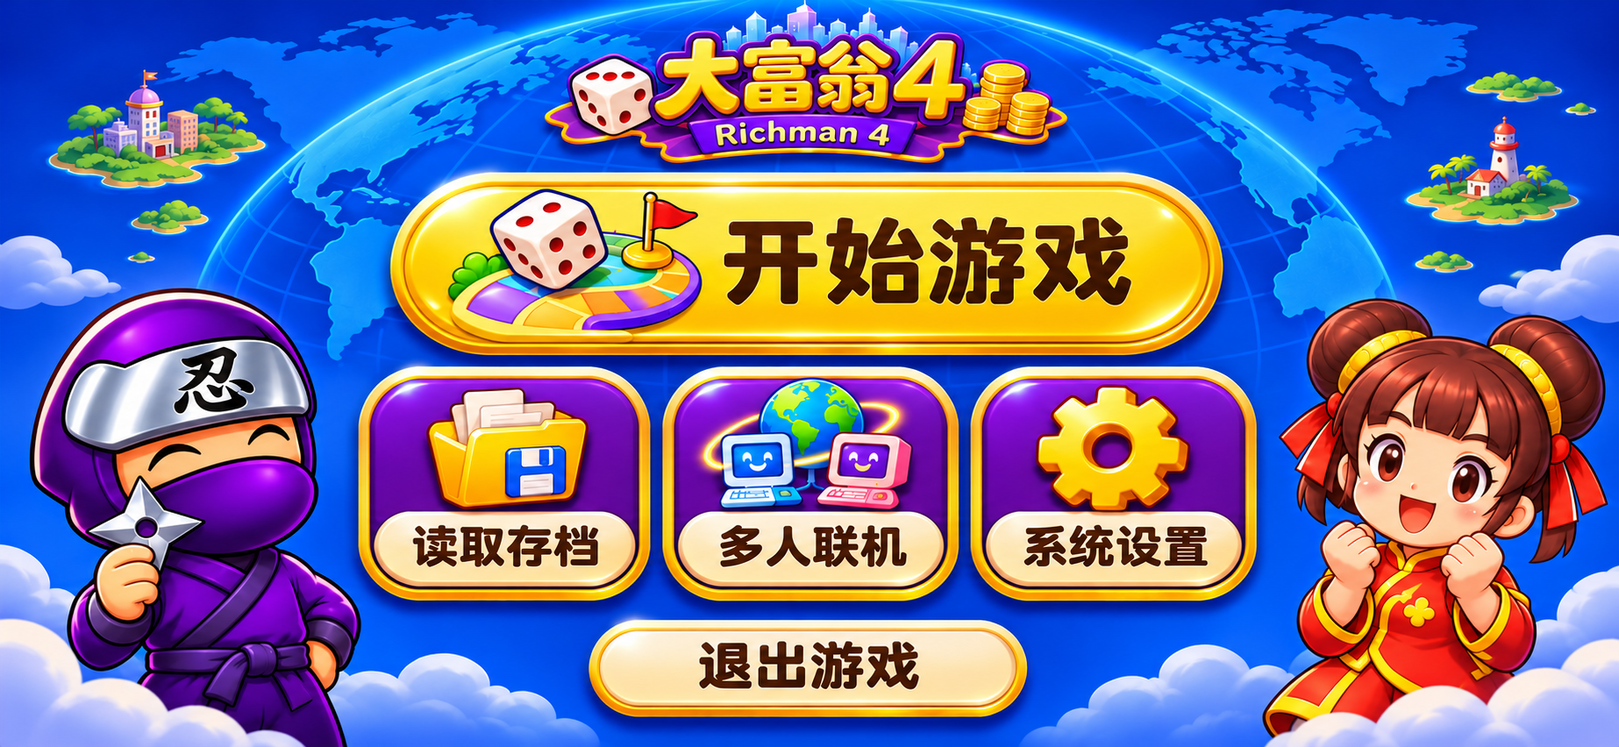
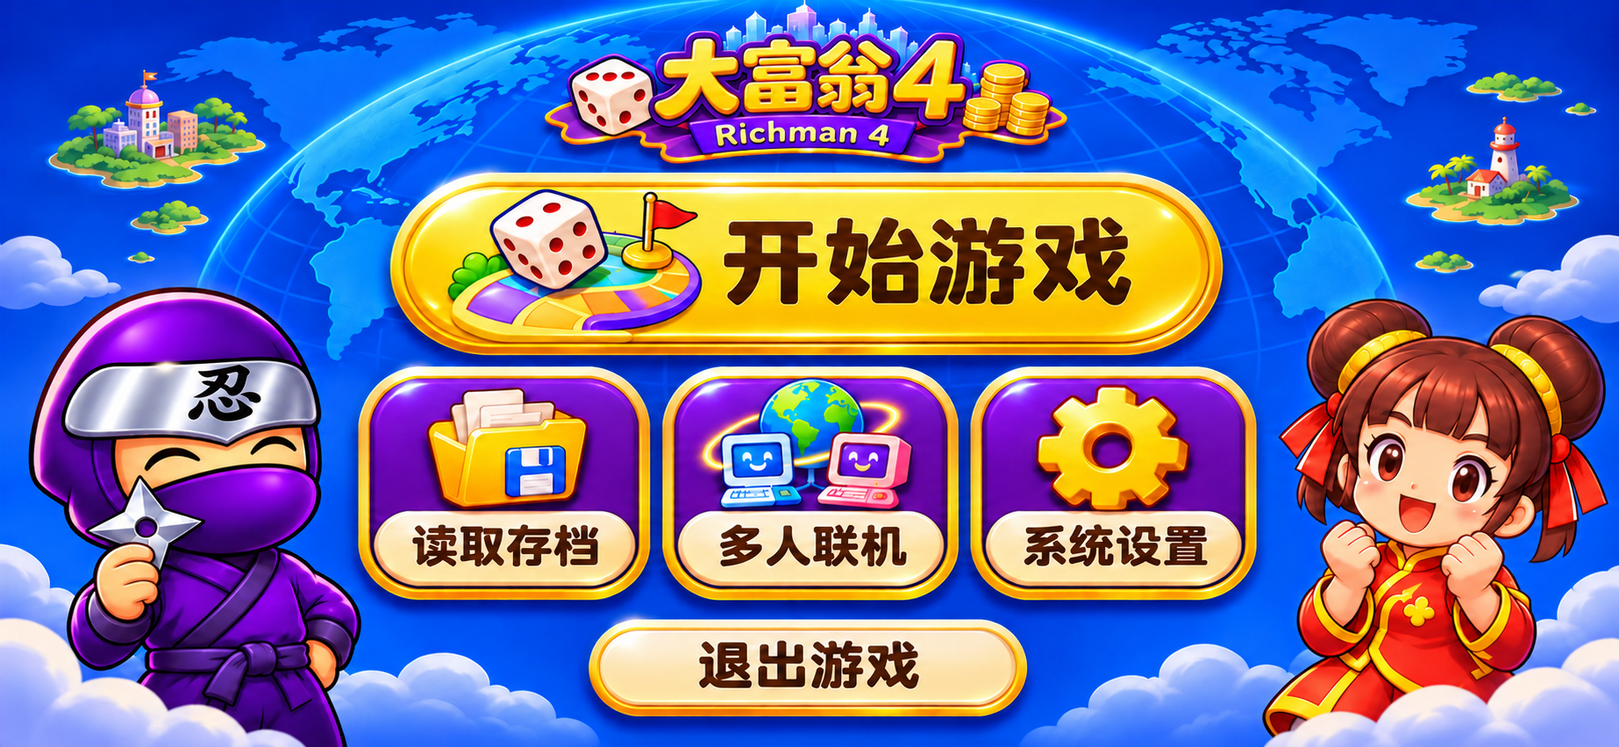
Refresh approved Nintaro cover across device galleries and README

diff --git a/docs/index.html b/docs/index.html
@@ -2,23 +2,23 @@
 <html lang="zh-CN"><head><meta charset="utf-8"><meta name="viewport" content="width=device-width,initial-scale=1"><meta name="theme-color" content="#1757c7"><meta name="description" content="大富翁 4 联机重制版下载、新版界面三端效果图与联机指南。"><title>大富翁 4 · 联机重制版</title><link rel="stylesheet" href="game.css"><script src="gallery.js" defer></script></head>
 <body><a class="skip" href="#download">跳到游戏下载</a>
 <header><a class="brand" href="#"><span class="dice" aria-hidden="true">⚄</span><span>大富翁 <b>4</b><small>RICHMAN 4 · ONLINE</small></span></a><nav aria-label="主导航"><a href="#download">游戏下载</a><a href="#preview">界面预览</a><a href="#guide">联机指南</a><a href="https://github.com/EXP-Games/rich4-online-release">GitHub ↗</a></nav></header>
-<main><section class="hero"><div><p class="eyebrow">经典棋盘 · 再聚一局</p><h1>大富翁 4<span>联机重制版</span></h1><p class="lead">选一张熟悉的地图，约朋友进同一个房间。掷骰、买地、用卡片，在 Windows 和 Android 上一起玩。</p><div class="actions"><a class="button gold" href="#download">↓ 下载游戏</a><a class="button white" href="#preview">看看新界面</a></div><p class="facts">最多 4 人　·　8 张经典地图　·　Windows / Android</p></div><figure class="hero-art frame"><img src="images/ui/main-pc.png" width="1672" height="941" alt="新版主菜单设计效果：金色开始游戏按钮、左侧忍太郎与右侧孙小美"><figcaption><span class="tag">设计效果图</span> 新界面方向 · 尚未全部实装</figcaption></figure></section>
+<main><section class="hero"><div><p class="eyebrow">经典棋盘 · 再聚一局</p><h1>大富翁 4<span>联机重制版</span></h1><p class="lead">选一张熟悉的地图，约朋友进同一个房间。掷骰、买地、用卡片，在 Windows 和 Android 上一起玩。</p><div class="actions"><a class="button gold" href="#download">↓ 下载游戏</a><a class="button white" href="#preview">看看新界面</a></div><p class="facts">最多 4 人　·　8 张经典地图　·　Windows / Android</p></div><figure class="hero-art frame"><img src="images/ui/main-pc.png?v=669a1ea31d74" width="1672" height="941" alt="新版主菜单设计效果：金色开始游戏按钮、左侧忍太郎与右侧孙小美"><figcaption><span class="tag">设计效果图</span> 新界面方向 · 尚未全部实装</figcaption></figure></section>
 <section id="download"><div class="heading"><span class="step">01</span><div><p class="eyebrow">准备好，开始下一局</p><h2>游戏下载</h2></div><span class="badge">当前发布 v0.1.9</span></div><p class="intro">本期版本 <strong>v0.1.9-preview.20261108</strong>。一起联机的玩家，请使用同一批次版本。</p><div class="downloads">
 <article id="windows" class="download frame"><p class="eyebrow">PC · x64</p><h3>Windows 完整版</h3><p>包含完整过场。解压整个 ZIP，运行 <code>Rich4/Start.vbs</code>，无需 Steam。请保留完整目录结构。</p><a class="button gold" href="https://github.com/EXP-Games/rich4-online-release/releases/download/v0.1.9-preview.20261108/Rich4-Windows-x64-v0.1.9-preview.20261108.zip">下载 Windows ZIP <small>1.68 GB</small></a></article>
 <article id="android" class="download frame"><p class="eyebrow">手机 · ARM64</p><h3>Android 轻量版</h3><p>适用于 Android 8.0 及以上的 ARM64 设备。保留游戏内动画、音乐和语音；独立过场可在设置中按需下载。</p><a class="button green" href="https://github.com/EXP-Games/rich4-online-release/releases/download/v0.1.9-preview.20261108/Rich4-Android-arm64-no-cinematics-v0.1.9-preview.20261108.apk">下载 Android APK <small>294 MB</small></a></article></div>
 <p class="download-links"><a href="https://github.com/EXP-Games/rich4-online-release/releases/download/v0.1.9-preview.20261108/SHA256SUMS.txt">SHA-256 校验清单</a><a href="https://github.com/EXP-Games/rich4-online-release/releases/tag/v0.1.9-preview.20261108">本版发布说明</a><a href="https://github.com/EXP-Games/rich4-online-release/releases">所有版本 ↗</a></p></section>
 <section id="preview"><div class="heading"><span class="step">02</span><div><p class="eyebrow">同一个世界，三种布局</p><h2>新版界面效果图</h2></div><span class="badge">7 组页面 · 21 张图</span></div>
-<div class="notice"><strong>先看设计，再看实现。</strong>以下是新 UI 设计效果图，尚未全部实装，当前下载包不代表已包含这些界面。棋盘人物、神仙与 NPC 的造型仍需按原版校准；菜单插画、立绘和头像保留目前认可的设计方向。</div>
+<div class="notice"><strong>先看设计，再看实现。</strong>以下是新 UI 设计效果图，尚未全部实装，当前下载包不代表已包含这些界面。棋盘人物、神仙与 NPC 的造型仍需按原版校准；菜单插画、立绘和头像保留目前认可的设计方向。主菜单三端封面已同步修正忍太郎护额与“忍”字。</div>
 <nav class="screen-nav" aria-label="效果图页面"><a href="#screen-main">主菜单</a><a href="#screen-room">联机房间</a><a href="#screen-settings">系统设置</a><a href="#screen-policy">离线行动</a><a href="#screen-maps">选择地图</a><a href="#screen-characters">选择角色</a><a href="#screen-board">棋盘行动条</a></nav>
 <div class="filters" role="group" aria-label="按设备筛选"><button type="button" data-device="all" class="active" aria-pressed="true">全部布局</button><button type="button" data-device="pc" aria-pressed="false">PC 横屏</button><button type="button" data-device="mobile-landscape" aria-pressed="false">手机横屏</button><button type="button" data-device="mobile-portrait" aria-pressed="false">手机竖屏</button></div><p id="gallery-status" class="gallery-status" aria-live="polite">展示全部 21 张效果图，点击图片可放大。</p>
 <!-- UI_GALLERY -->
-<section id="screen-main" class="screen-group" aria-labelledby="title-main"><div class="group-heading"><h3 id="title-main">主菜单</h3><p>合并开局入口，保留主菜单忍太郎插画。</p></div><div class="device-grid"><figure class="device-card" data-device="pc"><a class="preview-link" href="images/ui/main-pc.png" data-title="主菜单 · PC 横屏 · 设计效果图"><div class="preview-image"><img loading="lazy" decoding="async" src="images/ui/main-pc.png" width="1672" height="941" alt="主菜单 · PC 横屏 · 设计效果图"></div><figcaption><b>PC 横屏</b><span>设计稿 · 点击放大 ↗</span></figcaption></a></figure><figure class="device-card" data-device="mobile-landscape"><a class="preview-link" href="images/ui/main-mobile-landscape.png" data-title="主菜单 · 手机横屏 · 设计效果图"><div class="preview-image"><img loading="lazy" decoding="async" src="images/ui/main-mobile-landscape.png" width="1846" height="852" alt="主菜单 · 手机横屏 · 设计效果图"></div><figcaption><b>手机横屏</b><span>设计稿 · 点击放大 ↗</span></figcaption></a></figure><figure class="device-card" data-device="mobile-portrait"><a class="preview-link" href="images/ui/main-mobile-portrait.png" data-title="主菜单 · 手机竖屏 · 设计效果图"><div class="preview-image"><img loading="lazy" decoding="async" src="images/ui/main-mobile-portrait.png" width="941" height="1670" alt="主菜单 · 手机竖屏 · 设计效果图"></div><figcaption><b>手机竖屏</b><span>设计稿 · 点击放大 ↗</span></figcaption></a></figure></div></section>
-<section id="screen-room" class="screen-group" aria-labelledby="title-room"><div class="group-heading"><h3 id="title-room">联机房间</h3><p>四个席位、房间聊天与编辑结束自动保存的设计。</p></div><div class="device-grid"><figure class="device-card" data-device="pc"><a class="preview-link" href="images/ui/room-pc.png" data-title="联机房间 · PC 横屏 · 设计效果图"><div class="preview-image"><img loading="lazy" decoding="async" src="images/ui/room-pc.png" width="1672" height="941" alt="联机房间 · PC 横屏 · 设计效果图"></div><figcaption><b>PC 横屏</b><span>设计稿 · 点击放大 ↗</span></figcaption></a></figure><figure class="device-card" data-device="mobile-landscape"><a class="preview-link" href="images/ui/room-mobile-landscape.png" data-title="联机房间 · 手机横屏 · 设计效果图"><div class="preview-image"><img loading="lazy" decoding="async" src="images/ui/room-mobile-landscape.png" width="1821" height="864" alt="联机房间 · 手机横屏 · 设计效果图"></div><figcaption><b>手机横屏</b><span>设计稿 · 点击放大 ↗</span></figcaption></a></figure><figure class="device-card" data-device="mobile-portrait"><a class="preview-link" href="images/ui/room-mobile-portrait.png" data-title="联机房间 · 手机竖屏 · 设计效果图"><div class="preview-image"><img loading="lazy" decoding="async" src="images/ui/room-mobile-portrait.png" width="892" height="1763" alt="联机房间 · 手机竖屏 · 设计效果图"></div><figcaption><b>手机竖屏</b><span>设计稿 · 点击放大 ↗</span></figcaption></a></figure></div></section>
-<section id="screen-settings" class="screen-group" aria-labelledby="title-settings"><div class="group-heading"><h3 id="title-settings">系统设置</h3><p>PC 展示显示页；手机展示音画页，横竖屏独立排版。</p></div><div class="device-grid"><figure class="device-card" data-device="pc"><a class="preview-link" href="images/ui/settings-pc.png" data-title="系统设置 · PC 横屏 · 设计效果图"><div class="preview-image"><img loading="lazy" decoding="async" src="images/ui/settings-pc.png" width="1672" height="941" alt="系统设置 · PC 横屏 · 设计效果图"></div><figcaption><b>PC 横屏</b><span>设计稿 · 点击放大 ↗</span></figcaption></a></figure><figure class="device-card" data-device="mobile-landscape"><a class="preview-link" href="images/ui/settings-mobile-landscape.png" data-title="系统设置 · 手机横屏 · 设计效果图"><div class="preview-image"><img loading="lazy" decoding="async" src="images/ui/settings-mobile-landscape.png" width="1821" height="864" alt="系统设置 · 手机横屏 · 设计效果图"></div><figcaption><b>手机横屏</b><span>设计稿 · 点击放大 ↗</span></figcaption></a></figure><figure class="device-card" data-device="mobile-portrait"><a class="preview-link" href="images/ui/settings-mobile-portrait.png" data-title="系统设置 · 手机竖屏 · 设计效果图"><div class="preview-image"><img loading="lazy" decoding="async" src="images/ui/settings-mobile-portrait.png" width="892" height="1763" alt="系统设置 · 手机竖屏 · 设计效果图"></div><figcaption><b>手机竖屏</b><span>设计稿 · 点击放大 ↗</span></figcaption></a></figure></div></section>
-<section id="screen-policy" class="screen-group" aria-labelledby="title-policy"><div class="group-heading"><h3 id="title-policy">准备 · 离线行动</h3><p>AI 接管、破产清算、外星人暂离。</p></div><div class="device-grid"><figure class="device-card" data-device="pc"><a class="preview-link" href="images/ui/policy-pc.png" data-title="准备 · 离线行动 · PC 横屏 · 设计效果图"><div class="preview-image"><img loading="lazy" decoding="async" src="images/ui/policy-pc.png" width="1672" height="941" alt="准备 · 离线行动 · PC 横屏 · 设计效果图"></div><figcaption><b>PC 横屏</b><span>设计稿 · 点击放大 ↗</span></figcaption></a></figure><figure class="device-card" data-device="mobile-landscape"><a class="preview-link" href="images/ui/policy-mobile-landscape.png" data-title="准备 · 离线行动 · 手机横屏 · 设计效果图"><div class="preview-image"><img loading="lazy" decoding="async" src="images/ui/policy-mobile-landscape.png" width="1821" height="864" alt="准备 · 离线行动 · 手机横屏 · 设计效果图"></div><figcaption><b>手机横屏</b><span>设计稿 · 点击放大 ↗</span></figcaption></a></figure><figure class="device-card" data-device="mobile-portrait"><a class="preview-link" href="images/ui/policy-mobile-portrait.png" data-title="准备 · 离线行动 · 手机竖屏 · 设计效果图"><div class="preview-image"><img loading="lazy" decoding="async" src="images/ui/policy-mobile-portrait.png" width="898" height="1751" alt="准备 · 离线行动 · 手机竖屏 · 设计效果图"></div><figcaption><b>手机竖屏</b><span>设计稿 · 点击放大 ↗</span></figcaption></a></figure></div></section>
-<section id="screen-maps" class="screen-group" aria-labelledby="title-maps"><div class="group-heading"><h3 id="title-maps">选择地图</h3><p>开始游戏后统一选择八张经典地图。</p></div><div class="device-grid"><figure class="device-card" data-device="pc"><a class="preview-link" href="images/ui/maps-pc.png" data-title="选择地图 · PC 横屏 · 设计效果图"><div class="preview-image"><img loading="lazy" decoding="async" src="images/ui/maps-pc.png" width="1672" height="941" alt="选择地图 · PC 横屏 · 设计效果图"></div><figcaption><b>PC 横屏</b><span>设计稿 · 点击放大 ↗</span></figcaption></a></figure><figure class="device-card" data-device="mobile-landscape"><a class="preview-link" href="images/ui/maps-mobile-landscape.png" data-title="选择地图 · 手机横屏 · 设计效果图"><div class="preview-image"><img loading="lazy" decoding="async" src="images/ui/maps-mobile-landscape.png" width="1820" height="864" alt="选择地图 · 手机横屏 · 设计效果图"></div><figcaption><b>手机横屏</b><span>设计稿 · 点击放大 ↗</span></figcaption></a></figure><figure class="device-card" data-device="mobile-portrait"><a class="preview-link" href="images/ui/maps-mobile-portrait.png" data-title="选择地图 · 手机竖屏 · 设计效果图"><div class="preview-image"><img loading="lazy" decoding="async" src="images/ui/maps-mobile-portrait.png" width="892" height="1764" alt="选择地图 · 手机竖屏 · 设计效果图"></div><figcaption><b>手机竖屏</b><span>设计稿 · 点击放大 ↗</span></figcaption></a></figure></div></section>
-<section id="screen-characters" class="screen-group" aria-labelledby="title-characters"><div class="group-heading"><h3 id="title-characters">选择角色</h3><p>十二个角色，默认原角色名，游戏时间默认无限期。</p></div><div class="device-grid"><figure class="device-card" data-device="pc"><a class="preview-link" href="images/ui/characters-pc.png" data-title="选择角色 · PC 横屏 · 设计效果图"><div class="preview-image"><img loading="lazy" decoding="async" src="images/ui/characters-pc.png" width="1672" height="941" alt="选择角色 · PC 横屏 · 设计效果图"></div><figcaption><b>PC 横屏</b><span>设计稿 · 点击放大 ↗</span></figcaption></a></figure><figure class="device-card" data-device="mobile-landscape"><a class="preview-link" href="images/ui/characters-mobile-landscape.png" data-title="选择角色 · 手机横屏 · 设计效果图"><div class="preview-image"><img loading="lazy" decoding="async" src="images/ui/characters-mobile-landscape.png" width="1822" height="863" alt="选择角色 · 手机横屏 · 设计效果图"></div><figcaption><b>手机横屏</b><span>设计稿 · 点击放大 ↗</span></figcaption></a></figure><figure class="device-card" data-device="mobile-portrait"><a class="preview-link" href="images/ui/characters-mobile-portrait.png" data-title="选择角色 · 手机竖屏 · 设计效果图"><div class="preview-image"><img loading="lazy" decoding="async" src="images/ui/characters-mobile-portrait.png" width="894" height="1760" alt="选择角色 · 手机竖屏 · 设计效果图"></div><figcaption><b>手机竖屏</b><span>设计稿 · 点击放大 ↗</span></figcaption></a></figure></div></section>
-<section id="screen-board" class="screen-group" aria-labelledby="title-board"><div class="group-heading"><h3 id="title-board">棋盘与行动条</h3><p>只用小头像和图标显示行动顺序；游戏内造型仍需按原版校准。</p></div><div class="device-grid"><figure class="device-card" data-device="pc"><a class="preview-link" href="images/ui/board-pc.png" data-title="棋盘与行动条 · PC 横屏 · 设计效果图"><div class="preview-image"><img loading="lazy" decoding="async" src="images/ui/board-pc.png" width="1672" height="941" alt="棋盘与行动条 · PC 横屏 · 设计效果图"></div><figcaption><b>PC 横屏</b><span>设计稿 · 点击放大 ↗</span></figcaption></a></figure><figure class="device-card" data-device="mobile-landscape"><a class="preview-link" href="images/ui/board-mobile-landscape.png" data-title="棋盘与行动条 · 手机横屏 · 设计效果图"><div class="preview-image"><img loading="lazy" decoding="async" src="images/ui/board-mobile-landscape.png" width="1846" height="852" alt="棋盘与行动条 · 手机横屏 · 设计效果图"></div><figcaption><b>手机横屏</b><span>设计稿 · 点击放大 ↗</span></figcaption></a></figure><figure class="device-card" data-device="mobile-portrait"><a class="preview-link" href="images/ui/board-mobile-portrait.png" data-title="棋盘与行动条 · 手机竖屏 · 设计效果图"><div class="preview-image"><img loading="lazy" decoding="async" src="images/ui/board-mobile-portrait.png" width="972" height="1618" alt="棋盘与行动条 · 手机竖屏 · 设计效果图"></div><figcaption><b>手机竖屏</b><span>设计稿 · 点击放大 ↗</span></figcaption></a></figure></div><p class="group-note">只用小头像和图标显示行动顺序；游戏内造型仍需按原版校准。</p></section>
+<section id="screen-main" class="screen-group" aria-labelledby="title-main"><div class="group-heading"><h3 id="title-main">主菜单</h3><p>封面忍太郎已按确认的头部修正护额；开始游戏合并原有两种开局入口。</p></div><div class="device-grid"><figure class="device-card" data-device="pc"><a class="preview-link" href="images/ui/main-pc.png?v=669a1ea31d74" data-title="主菜单 · PC 横屏 · 设计效果图"><div class="preview-image"><img loading="lazy" decoding="async" src="images/ui/main-pc.png?v=669a1ea31d74" width="1672" height="941" alt="主菜单 · PC 横屏 · 设计效果图"></div><figcaption><b>PC 横屏</b><span>设计稿 · 点击放大 ↗</span></figcaption></a></figure><figure class="device-card" data-device="mobile-landscape"><a class="preview-link" href="images/ui/main-mobile-landscape.png?v=d37e7f9714ae" data-title="主菜单 · 手机横屏 · 设计效果图"><div class="preview-image"><img loading="lazy" decoding="async" src="images/ui/main-mobile-landscape.png?v=d37e7f9714ae" width="1846" height="852" alt="主菜单 · 手机横屏 · 设计效果图"></div><figcaption><b>手机横屏</b><span>设计稿 · 点击放大 ↗</span></figcaption></a></figure><figure class="device-card" data-device="mobile-portrait"><a class="preview-link" href="images/ui/main-mobile-portrait.png?v=2c2b43096c6f" data-title="主菜单 · 手机竖屏 · 设计效果图"><div class="preview-image"><img loading="lazy" decoding="async" src="images/ui/main-mobile-portrait.png?v=2c2b43096c6f" width="941" height="1670" alt="主菜单 · 手机竖屏 · 设计效果图"></div><figcaption><b>手机竖屏</b><span>设计稿 · 点击放大 ↗</span></figcaption></a></figure></div></section>
+<section id="screen-room" class="screen-group" aria-labelledby="title-room"><div class="group-heading"><h3 id="title-room">联机房间</h3><p>四个席位、房间聊天与编辑结束自动保存的设计。</p></div><div class="device-grid"><figure class="device-card" data-device="pc"><a class="preview-link" href="images/ui/room-pc.png?v=db71b03a20bc" data-title="联机房间 · PC 横屏 · 设计效果图"><div class="preview-image"><img loading="lazy" decoding="async" src="images/ui/room-pc.png?v=db71b03a20bc" width="1672" height="941" alt="联机房间 · PC 横屏 · 设计效果图"></div><figcaption><b>PC 横屏</b><span>设计稿 · 点击放大 ↗</span></figcaption></a></figure><figure class="device-card" data-device="mobile-landscape"><a class="preview-link" href="images/ui/room-mobile-landscape.png?v=657895cd45ea" data-title="联机房间 · 手机横屏 · 设计效果图"><div class="preview-image"><img loading="lazy" decoding="async" src="images/ui/room-mobile-landscape.png?v=657895cd45ea" width="1821" height="864" alt="联机房间 · 手机横屏 · 设计效果图"></div><figcaption><b>手机横屏</b><span>设计稿 · 点击放大 ↗</span></figcaption></a></figure><figure class="device-card" data-device="mobile-portrait"><a class="preview-link" href="images/ui/room-mobile-portrait.png?v=ae670bd3ca78" data-title="联机房间 · 手机竖屏 · 设计效果图"><div class="preview-image"><img loading="lazy" decoding="async" src="images/ui/room-mobile-portrait.png?v=ae670bd3ca78" width="892" height="1763" alt="联机房间 · 手机竖屏 · 设计效果图"></div><figcaption><b>手机竖屏</b><span>设计稿 · 点击放大 ↗</span></figcaption></a></figure></div></section>
+<section id="screen-settings" class="screen-group" aria-labelledby="title-settings"><div class="group-heading"><h3 id="title-settings">系统设置</h3><p>PC 展示显示页；手机展示音画页，横竖屏独立排版。</p></div><div class="device-grid"><figure class="device-card" data-device="pc"><a class="preview-link" href="images/ui/settings-pc.png?v=a305cf726425" data-title="系统设置 · PC 横屏 · 设计效果图"><div class="preview-image"><img loading="lazy" decoding="async" src="images/ui/settings-pc.png?v=a305cf726425" width="1672" height="941" alt="系统设置 · PC 横屏 · 设计效果图"></div><figcaption><b>PC 横屏</b><span>设计稿 · 点击放大 ↗</span></figcaption></a></figure><figure class="device-card" data-device="mobile-landscape"><a class="preview-link" href="images/ui/settings-mobile-landscape.png?v=72a2c09d9ff9" data-title="系统设置 · 手机横屏 · 设计效果图"><div class="preview-image"><img loading="lazy" decoding="async" src="images/ui/settings-mobile-landscape.png?v=72a2c09d9ff9" width="1821" height="864" alt="系统设置 · 手机横屏 · 设计效果图"></div><figcaption><b>手机横屏</b><span>设计稿 · 点击放大 ↗</span></figcaption></a></figure><figure class="device-card" data-device="mobile-portrait"><a class="preview-link" href="images/ui/settings-mobile-portrait.png?v=e4c9707ed496" data-title="系统设置 · 手机竖屏 · 设计效果图"><div class="preview-image"><img loading="lazy" decoding="async" src="images/ui/settings-mobile-portrait.png?v=e4c9707ed496" width="892" height="1763" alt="系统设置 · 手机竖屏 · 设计效果图"></div><figcaption><b>手机竖屏</b><span>设计稿 · 点击放大 ↗</span></figcaption></a></figure></div></section>
+<section id="screen-policy" class="screen-group" aria-labelledby="title-policy"><div class="group-heading"><h3 id="title-policy">准备 · 离线行动</h3><p>AI 接管、破产清算、外星人暂离。</p></div><div class="device-grid"><figure class="device-card" data-device="pc"><a class="preview-link" href="images/ui/policy-pc.png?v=f2a4d9c61951" data-title="准备 · 离线行动 · PC 横屏 · 设计效果图"><div class="preview-image"><img loading="lazy" decoding="async" src="images/ui/policy-pc.png?v=f2a4d9c61951" width="1672" height="941" alt="准备 · 离线行动 · PC 横屏 · 设计效果图"></div><figcaption><b>PC 横屏</b><span>设计稿 · 点击放大 ↗</span></figcaption></a></figure><figure class="device-card" data-device="mobile-landscape"><a class="preview-link" href="images/ui/policy-mobile-landscape.png?v=2e4258811706" data-title="准备 · 离线行动 · 手机横屏 · 设计效果图"><div class="preview-image"><img loading="lazy" decoding="async" src="images/ui/policy-mobile-landscape.png?v=2e4258811706" width="1821" height="864" alt="准备 · 离线行动 · 手机横屏 · 设计效果图"></div><figcaption><b>手机横屏</b><span>设计稿 · 点击放大 ↗</span></figcaption></a></figure><figure class="device-card" data-device="mobile-portrait"><a class="preview-link" href="images/ui/policy-mobile-portrait.png?v=d90c66b4591f" data-title="准备 · 离线行动 · 手机竖屏 · 设计效果图"><div class="preview-image"><img loading="lazy" decoding="async" src="images/ui/policy-mobile-portrait.png?v=d90c66b4591f" width="898" height="1751" alt="准备 · 离线行动 · 手机竖屏 · 设计效果图"></div><figcaption><b>手机竖屏</b><span>设计稿 · 点击放大 ↗</span></figcaption></a></figure></div></section>
+<section id="screen-maps" class="screen-group" aria-labelledby="title-maps"><div class="group-heading"><h3 id="title-maps">选择地图</h3><p>开始游戏后统一选择八张经典地图。</p></div><div class="device-grid"><figure class="device-card" data-device="pc"><a class="preview-link" href="images/ui/maps-pc.png?v=ea735795968b" data-title="选择地图 · PC 横屏 · 设计效果图"><div class="preview-image"><img loading="lazy" decoding="async" src="images/ui/maps-pc.png?v=ea735795968b" width="1672" height="941" alt="选择地图 · PC 横屏 · 设计效果图"></div><figcaption><b>PC 横屏</b><span>设计稿 · 点击放大 ↗</span></figcaption></a></figure><figure class="device-card" data-device="mobile-landscape"><a class="preview-link" href="images/ui/maps-mobile-landscape.png?v=a4d891112dbd" data-title="选择地图 · 手机横屏 · 设计效果图"><div class="preview-image"><img loading="lazy" decoding="async" src="images/ui/maps-mobile-landscape.png?v=a4d891112dbd" width="1820" height="864" alt="选择地图 · 手机横屏 · 设计效果图"></div><figcaption><b>手机横屏</b><span>设计稿 · 点击放大 ↗</span></figcaption></a></figure><figure class="device-card" data-device="mobile-portrait"><a class="preview-link" href="images/ui/maps-mobile-portrait.png?v=8f95fd39a731" data-title="选择地图 · 手机竖屏 · 设计效果图"><div class="preview-image"><img loading="lazy" decoding="async" src="images/ui/maps-mobile-portrait.png?v=8f95fd39a731" width="892" height="1764" alt="选择地图 · 手机竖屏 · 设计效果图"></div><figcaption><b>手机竖屏</b><span>设计稿 · 点击放大 ↗</span></figcaption></a></figure></div></section>
+<section id="screen-characters" class="screen-group" aria-labelledby="title-characters"><div class="group-heading"><h3 id="title-characters">选择角色</h3><p>十二个角色，默认原角色名，游戏时间默认无限期。</p></div><div class="device-grid"><figure class="device-card" data-device="pc"><a class="preview-link" href="images/ui/characters-pc.png?v=33e4fe3953b6" data-title="选择角色 · PC 横屏 · 设计效果图"><div class="preview-image"><img loading="lazy" decoding="async" src="images/ui/characters-pc.png?v=33e4fe3953b6" width="1672" height="941" alt="选择角色 · PC 横屏 · 设计效果图"></div><figcaption><b>PC 横屏</b><span>设计稿 · 点击放大 ↗</span></figcaption></a></figure><figure class="device-card" data-device="mobile-landscape"><a class="preview-link" href="images/ui/characters-mobile-landscape.png?v=71eec11fd5e8" data-title="选择角色 · 手机横屏 · 设计效果图"><div class="preview-image"><img loading="lazy" decoding="async" src="images/ui/characters-mobile-landscape.png?v=71eec11fd5e8" width="1822" height="863" alt="选择角色 · 手机横屏 · 设计效果图"></div><figcaption><b>手机横屏</b><span>设计稿 · 点击放大 ↗</span></figcaption></a></figure><figure class="device-card" data-device="mobile-portrait"><a class="preview-link" href="images/ui/characters-mobile-portrait.png?v=53f27aa7e9ae" data-title="选择角色 · 手机竖屏 · 设计效果图"><div class="preview-image"><img loading="lazy" decoding="async" src="images/ui/characters-mobile-portrait.png?v=53f27aa7e9ae" width="894" height="1760" alt="选择角色 · 手机竖屏 · 设计效果图"></div><figcaption><b>手机竖屏</b><span>设计稿 · 点击放大 ↗</span></figcaption></a></figure></div></section>
+<section id="screen-board" class="screen-group" aria-labelledby="title-board"><div class="group-heading"><h3 id="title-board">棋盘与行动条</h3><p>只用小头像和图标显示行动顺序；游戏内造型仍需按原版校准。</p></div><div class="device-grid"><figure class="device-card" data-device="pc"><a class="preview-link" href="images/ui/board-pc.png?v=0783854c4134" data-title="棋盘与行动条 · PC 横屏 · 设计效果图"><div class="preview-image"><img loading="lazy" decoding="async" src="images/ui/board-pc.png?v=0783854c4134" width="1672" height="941" alt="棋盘与行动条 · PC 横屏 · 设计效果图"></div><figcaption><b>PC 横屏</b><span>设计稿 · 点击放大 ↗</span></figcaption></a></figure><figure class="device-card" data-device="mobile-landscape"><a class="preview-link" href="images/ui/board-mobile-landscape.png?v=0ccd75cd6bc4" data-title="棋盘与行动条 · 手机横屏 · 设计效果图"><div class="preview-image"><img loading="lazy" decoding="async" src="images/ui/board-mobile-landscape.png?v=0ccd75cd6bc4" width="1846" height="852" alt="棋盘与行动条 · 手机横屏 · 设计效果图"></div><figcaption><b>手机横屏</b><span>设计稿 · 点击放大 ↗</span></figcaption></a></figure><figure class="device-card" data-device="mobile-portrait"><a class="preview-link" href="images/ui/board-mobile-portrait.png?v=d43232d615c9" data-title="棋盘与行动条 · 手机竖屏 · 设计效果图"><div class="preview-image"><img loading="lazy" decoding="async" src="images/ui/board-mobile-portrait.png?v=d43232d615c9" width="972" height="1618" alt="棋盘与行动条 · 手机竖屏 · 设计效果图"></div><figcaption><b>手机竖屏</b><span>设计稿 · 点击放大 ↗</span></figcaption></a></figure></div><p class="group-note">只用小头像和图标显示行动顺序；游戏内造型仍需按原版校准。</p></section>
 <!-- /UI_GALLERY -->
 <section class="supplements frame" aria-labelledby="supplements-title"><h3 id="supplements-title">按钮按压状态与行动条局部</h3><div class="supplement-grid"><figure><a class="preview-link" href="images/ui/button-states.png" data-title="按钮状态：左列未按下，右列按下"><img loading="lazy" src="images/ui/button-states.png" width="1536" height="1024" alt="五种配色按钮的未按下与按下状态对比"></a><figcaption>左列未按下，右列按下</figcaption></figure><figure><a class="preview-link" href="images/ui/timeline-detail.png" data-title="行动条局部与状态图例"><img loading="lazy" src="images/ui/timeline-detail.png" width="1536" height="1024" alt="行动条、睡眠、手铐、绷带和暂离状态，以及换人方向示意"></a><figcaption>五类状态为图例，实际游戏最多 4 人</figcaption></figure></div></section>
 <p class="design-note">PC 设计目标：窗口最低 1280 × 720，提供四档可用分辨率；全屏铺满显示器，比例变化时扩展地图视野。手机横竖屏自适应全屏。以上是新界面实施要求，不是本期安装包的新增验收结论。</p></section>

diff --git a/tools/render_gallery.py b/tools/render_gallery.py
@@ -19,8 +19,9 @@ def render():
         for device in group['devices']:
             name=device['file']
             assert Path(name).name==name and (DOCS/'images/ui'/name).is_file()
+            url='images/ui/'+name+'?v='+device['sha256'][:12]
             title=group['title']+' · '+device['label']+' · 设计效果图'
-            cards.append(f'<figure class="device-card" data-device="{e(device["id"])}"><a class="preview-link" href="images/ui/{e(name)}" data-title="{e(title)}"><div class="preview-image"><img loading="lazy" decoding="async" src="images/ui/{e(name)}" width="{device["width"]}" height="{device["height"]}" alt="{e(title)}"></div><figcaption><b>{e(device["label"])}</b><span>设计稿 · 点击放大 ↗</span></figcaption></a></figure>')
+            cards.append(f'<figure class="device-card" data-device="{e(device["id"])}"><a class="preview-link" href="{e(url)}" data-title="{e(title)}"><div class="preview-image"><img loading="lazy" decoding="async" src="{e(url)}" width="{device["width"]}" height="{device["height"]}" alt="{e(title)}"></div><figcaption><b>{e(device["label"])}</b><span>设计稿 · 点击放大 ↗</span></figcaption></a></figure>')
         note=f'<p class="group-note">{e(group["note"])}</p>' if group['id']=='board' else ''
         sections.append(f'<section id="screen-{e(group["id"])}" class="screen-group" aria-labelledby="title-{e(group["id"])}"><div class="group-heading"><h3 id="title-{e(group["id"])}">{e(group["title"])}</h3><p>{e(group["note"])}</p></div><div class="device-grid">{"".join(cards)}</div>{note}</section>')
     page=DOCS/'index.html'

diff --git a/README.md b/README.md
@@ -6,6 +6,8 @@
 
 下载区下方新增 [新版界面效果图](https://exp-games.github.io/rich4-online-release/#preview)：七组页面，每组提供 PC 横屏、手机横屏、手机竖屏，共二十一张，支持筛选和点击放大。网页采用蓝色、紫金边框与立体按钮的新视觉。效果图尚未全部实装，不代表当前安装包已经包含这些新界面；棋盘人物、神仙和 NPC 的造型仍需按原版校准。
 
+主菜单封面已按确认的头部修正护额轮廓、透视及“忍”字对齐，PC 横屏、手机横屏、手机竖屏已同步。开发版 UI 正在重绘；下方现有安装包仍为已发布版本。
+
 ## 下载与启动
 
 当前版本为 [v0.1.9 联机预览版](https://github.com/EXP-Games/rich4-online-release/releases/tag/v0.1.9-preview.20261108)。Windows 和手机联机时必须一起更新到同一批版本。
@@ -32,7 +34,7 @@ Android 包使用开发签名，属于预览版。ARM64 手机实机及实体四
 
 | 页面 | PC 横屏 | 手机横屏 | 手机竖屏 |
 | --- | --- | --- | --- |
-| 主菜单 | <a href="docs/images/ui/main-pc.png"><img src="docs/images/ui/main-pc.png" width="220" alt="主菜单 · pc · 设计效果图"></a> | <a href="docs/images/ui/main-mobile-landscape.png"><img src="docs/images/ui/main-mobile-landscape.png" width="220" alt="主菜单 · mobile-landscape · 设计效果图"></a> | <a href="docs/images/ui/main-mobile-portrait.png"><img src="docs/images/ui/main-mobile-portrait.png" width="120" alt="主菜单 · mobile-portrait · 设计效果图"></a> |
+| 主菜单 | <a href="docs/images/ui/main-pc.png"><img src="docs/images/ui/main-pc.png?v=669a1ea31d74" width="220" alt="主菜单 · pc · 设计效果图"></a> | <a href="docs/images/ui/main-mobile-landscape.png"><img src="docs/images/ui/main-mobile-landscape.png?v=d37e7f9714ae" width="220" alt="主菜单 · mobile-landscape · 设计效果图"></a> | <a href="docs/images/ui/main-mobile-portrait.png"><img src="docs/images/ui/main-mobile-portrait.png?v=2c2b43096c6f" width="120" alt="主菜单 · mobile-portrait · 设计效果图"></a> |
 | 联机房间 | <a href="docs/images/ui/room-pc.png"><img src="docs/images/ui/room-pc.png" width="220" alt="联机房间 · pc · 设计效果图"></a> | <a href="docs/images/ui/room-mobile-landscape.png"><img src="docs/images/ui/room-mobile-landscape.png" width="220" alt="联机房间 · mobile-landscape · 设计效果图"></a> | <a href="docs/images/ui/room-mobile-portrait.png"><img src="docs/images/ui/room-mobile-portrait.png" width="120" alt="联机房间 · mobile-portrait · 设计效果图"></a> |
 | 系统设置 | <a href="docs/images/ui/settings-pc.png"><img src="docs/images/ui/settings-pc.png" width="220" alt="系统设置 · pc · 设计效果图"></a> | <a href="docs/images/ui/settings-mobile-landscape.png"><img src="docs/images/ui/settings-mobile-landscape.png" width="220" alt="系统设置 · mobile-landscape · 设计效果图"></a> | <a href="docs/images/ui/settings-mobile-portrait.png"><img src="docs/images/ui/settings-mobile-portrait.png" width="120" alt="系统设置 · mobile-portrait · 设计效果图"></a> |
 | 离线行动确认 | <a href="docs/images/ui/policy-pc.png"><img src="docs/images/ui/policy-pc.png" width="220" alt="离线行动确认 · pc · 设计效果图"></a> | <a href="docs/images/ui/policy-mobile-landscape.png"><img src="docs/images/ui/policy-mobile-landscape.png" width="220" alt="离线行动确认 · mobile-landscape · 设计效果图"></a> | <a href="docs/images/ui/policy-mobile-portrait.png"><img src="docs/images/ui/policy-mobile-portrait.png" width="120" alt="离线行动确认 · mobile-portrait · 设计效果图"></a> |
